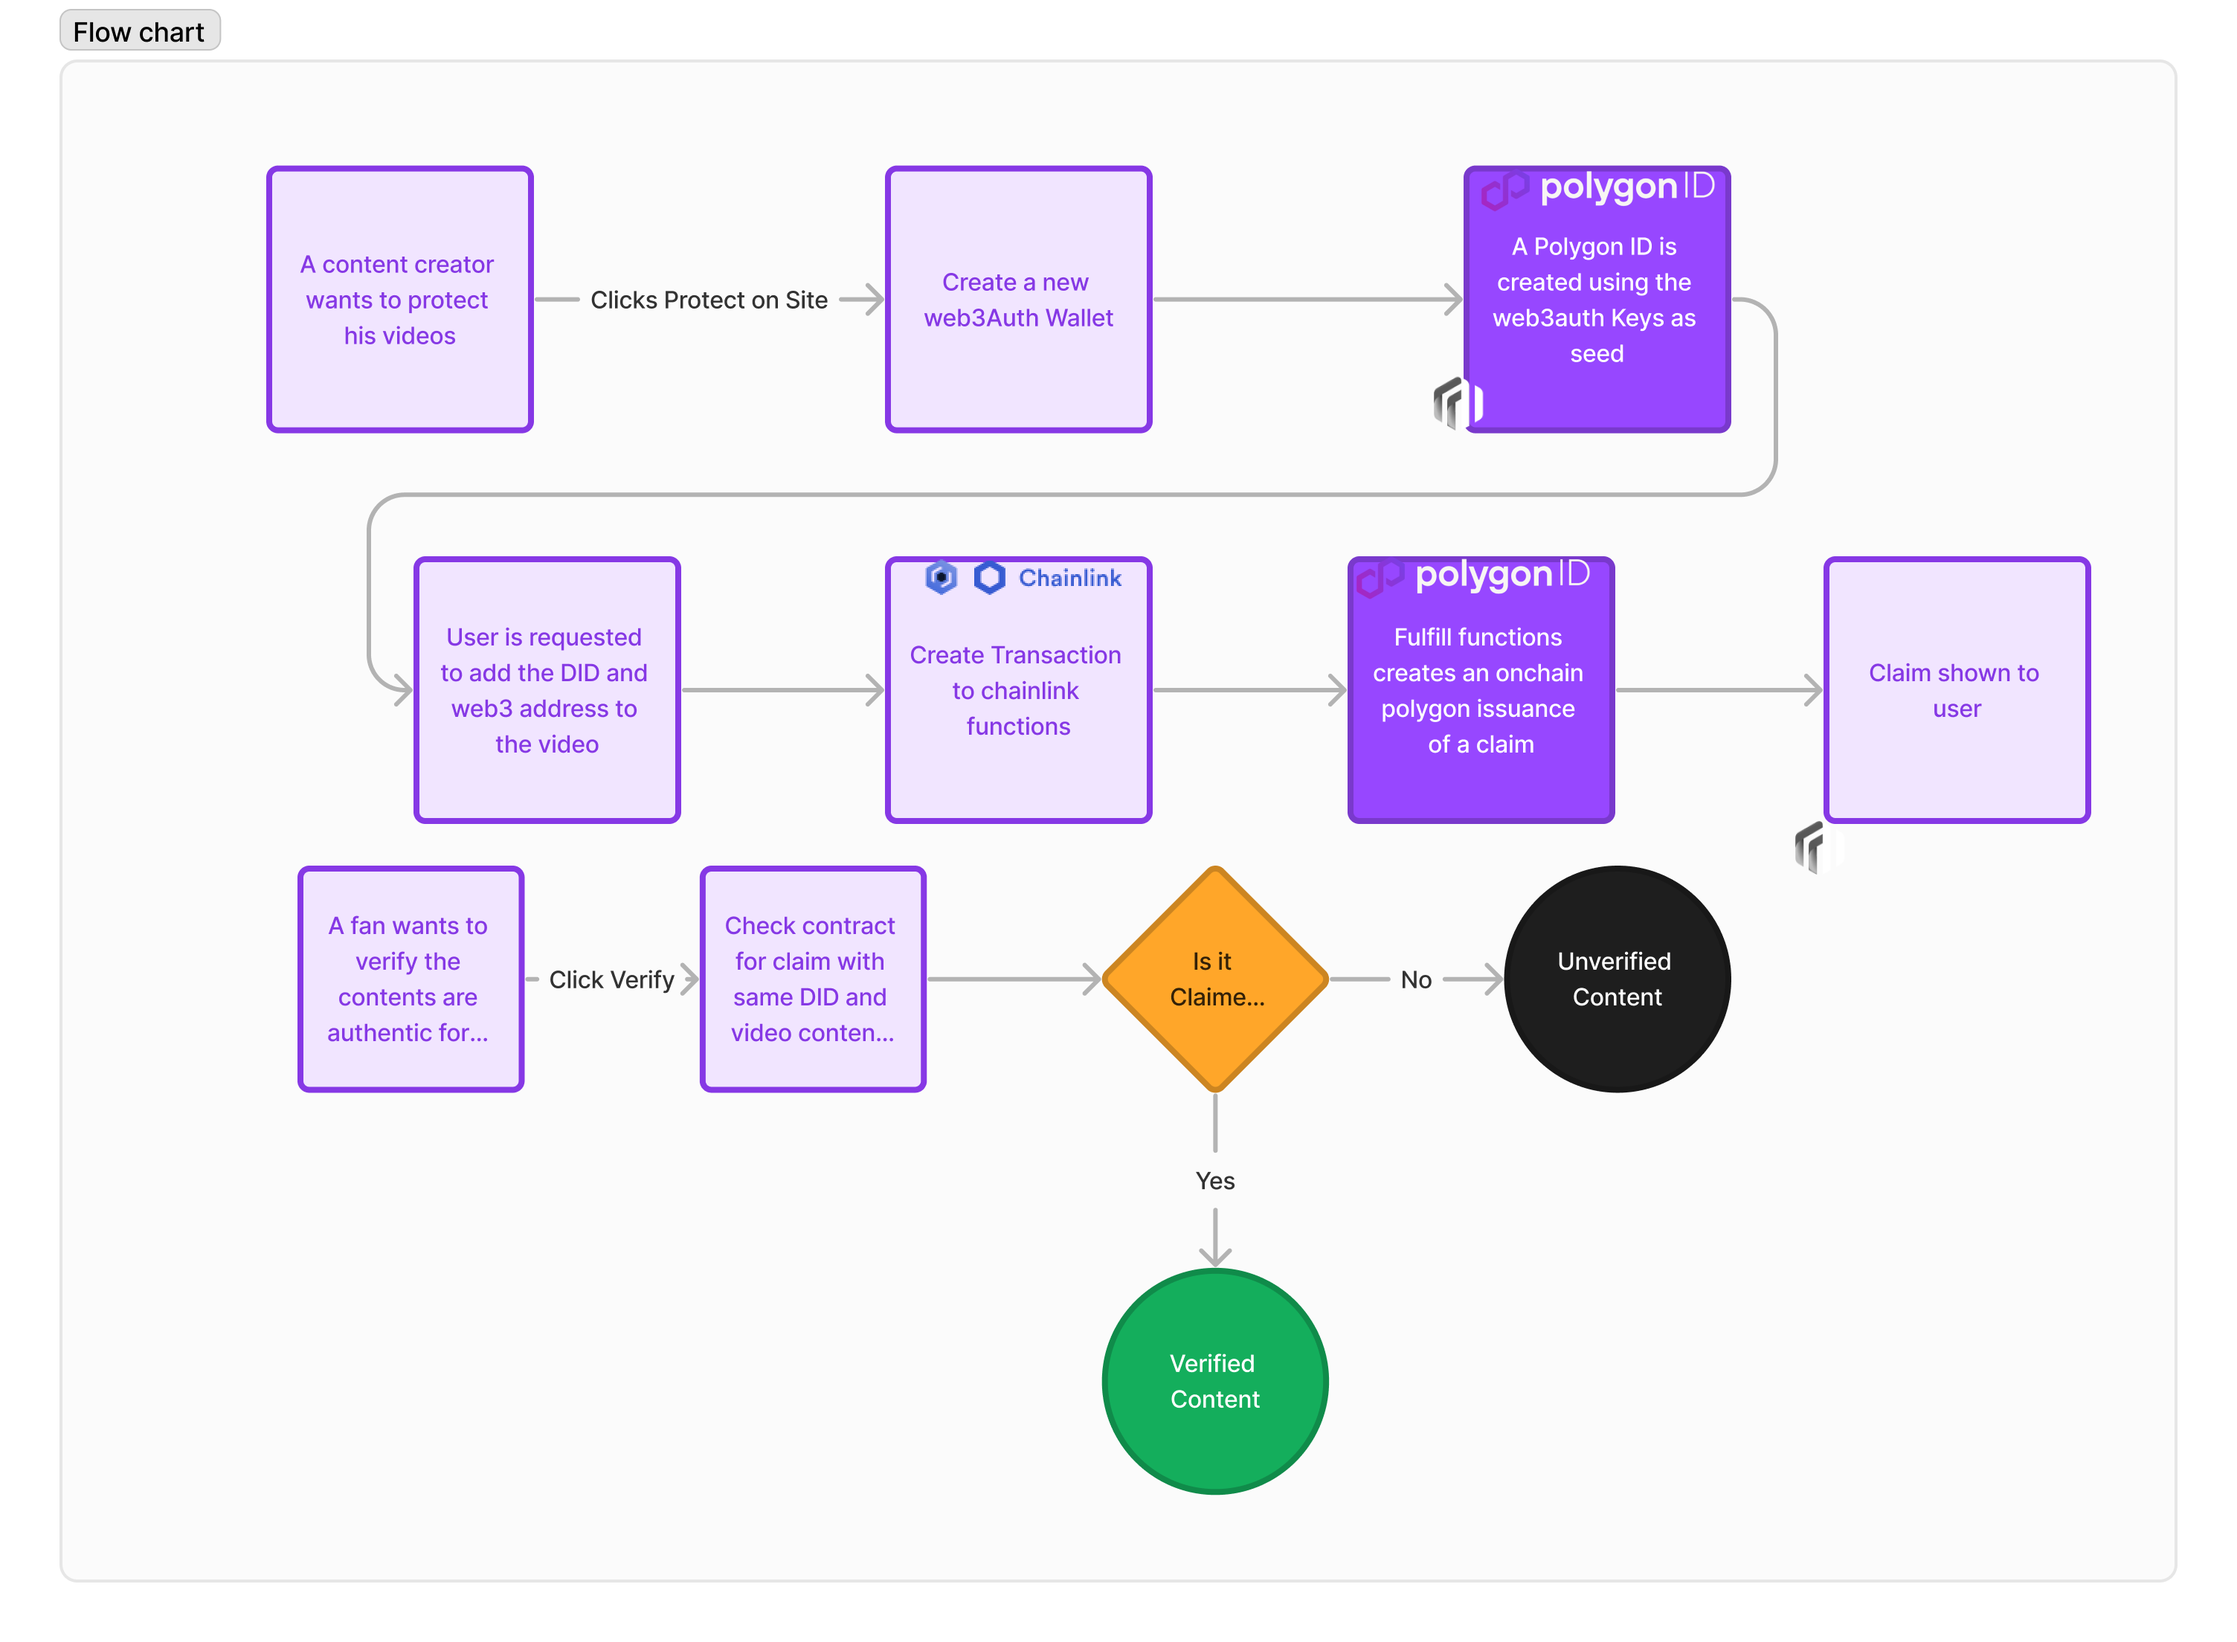
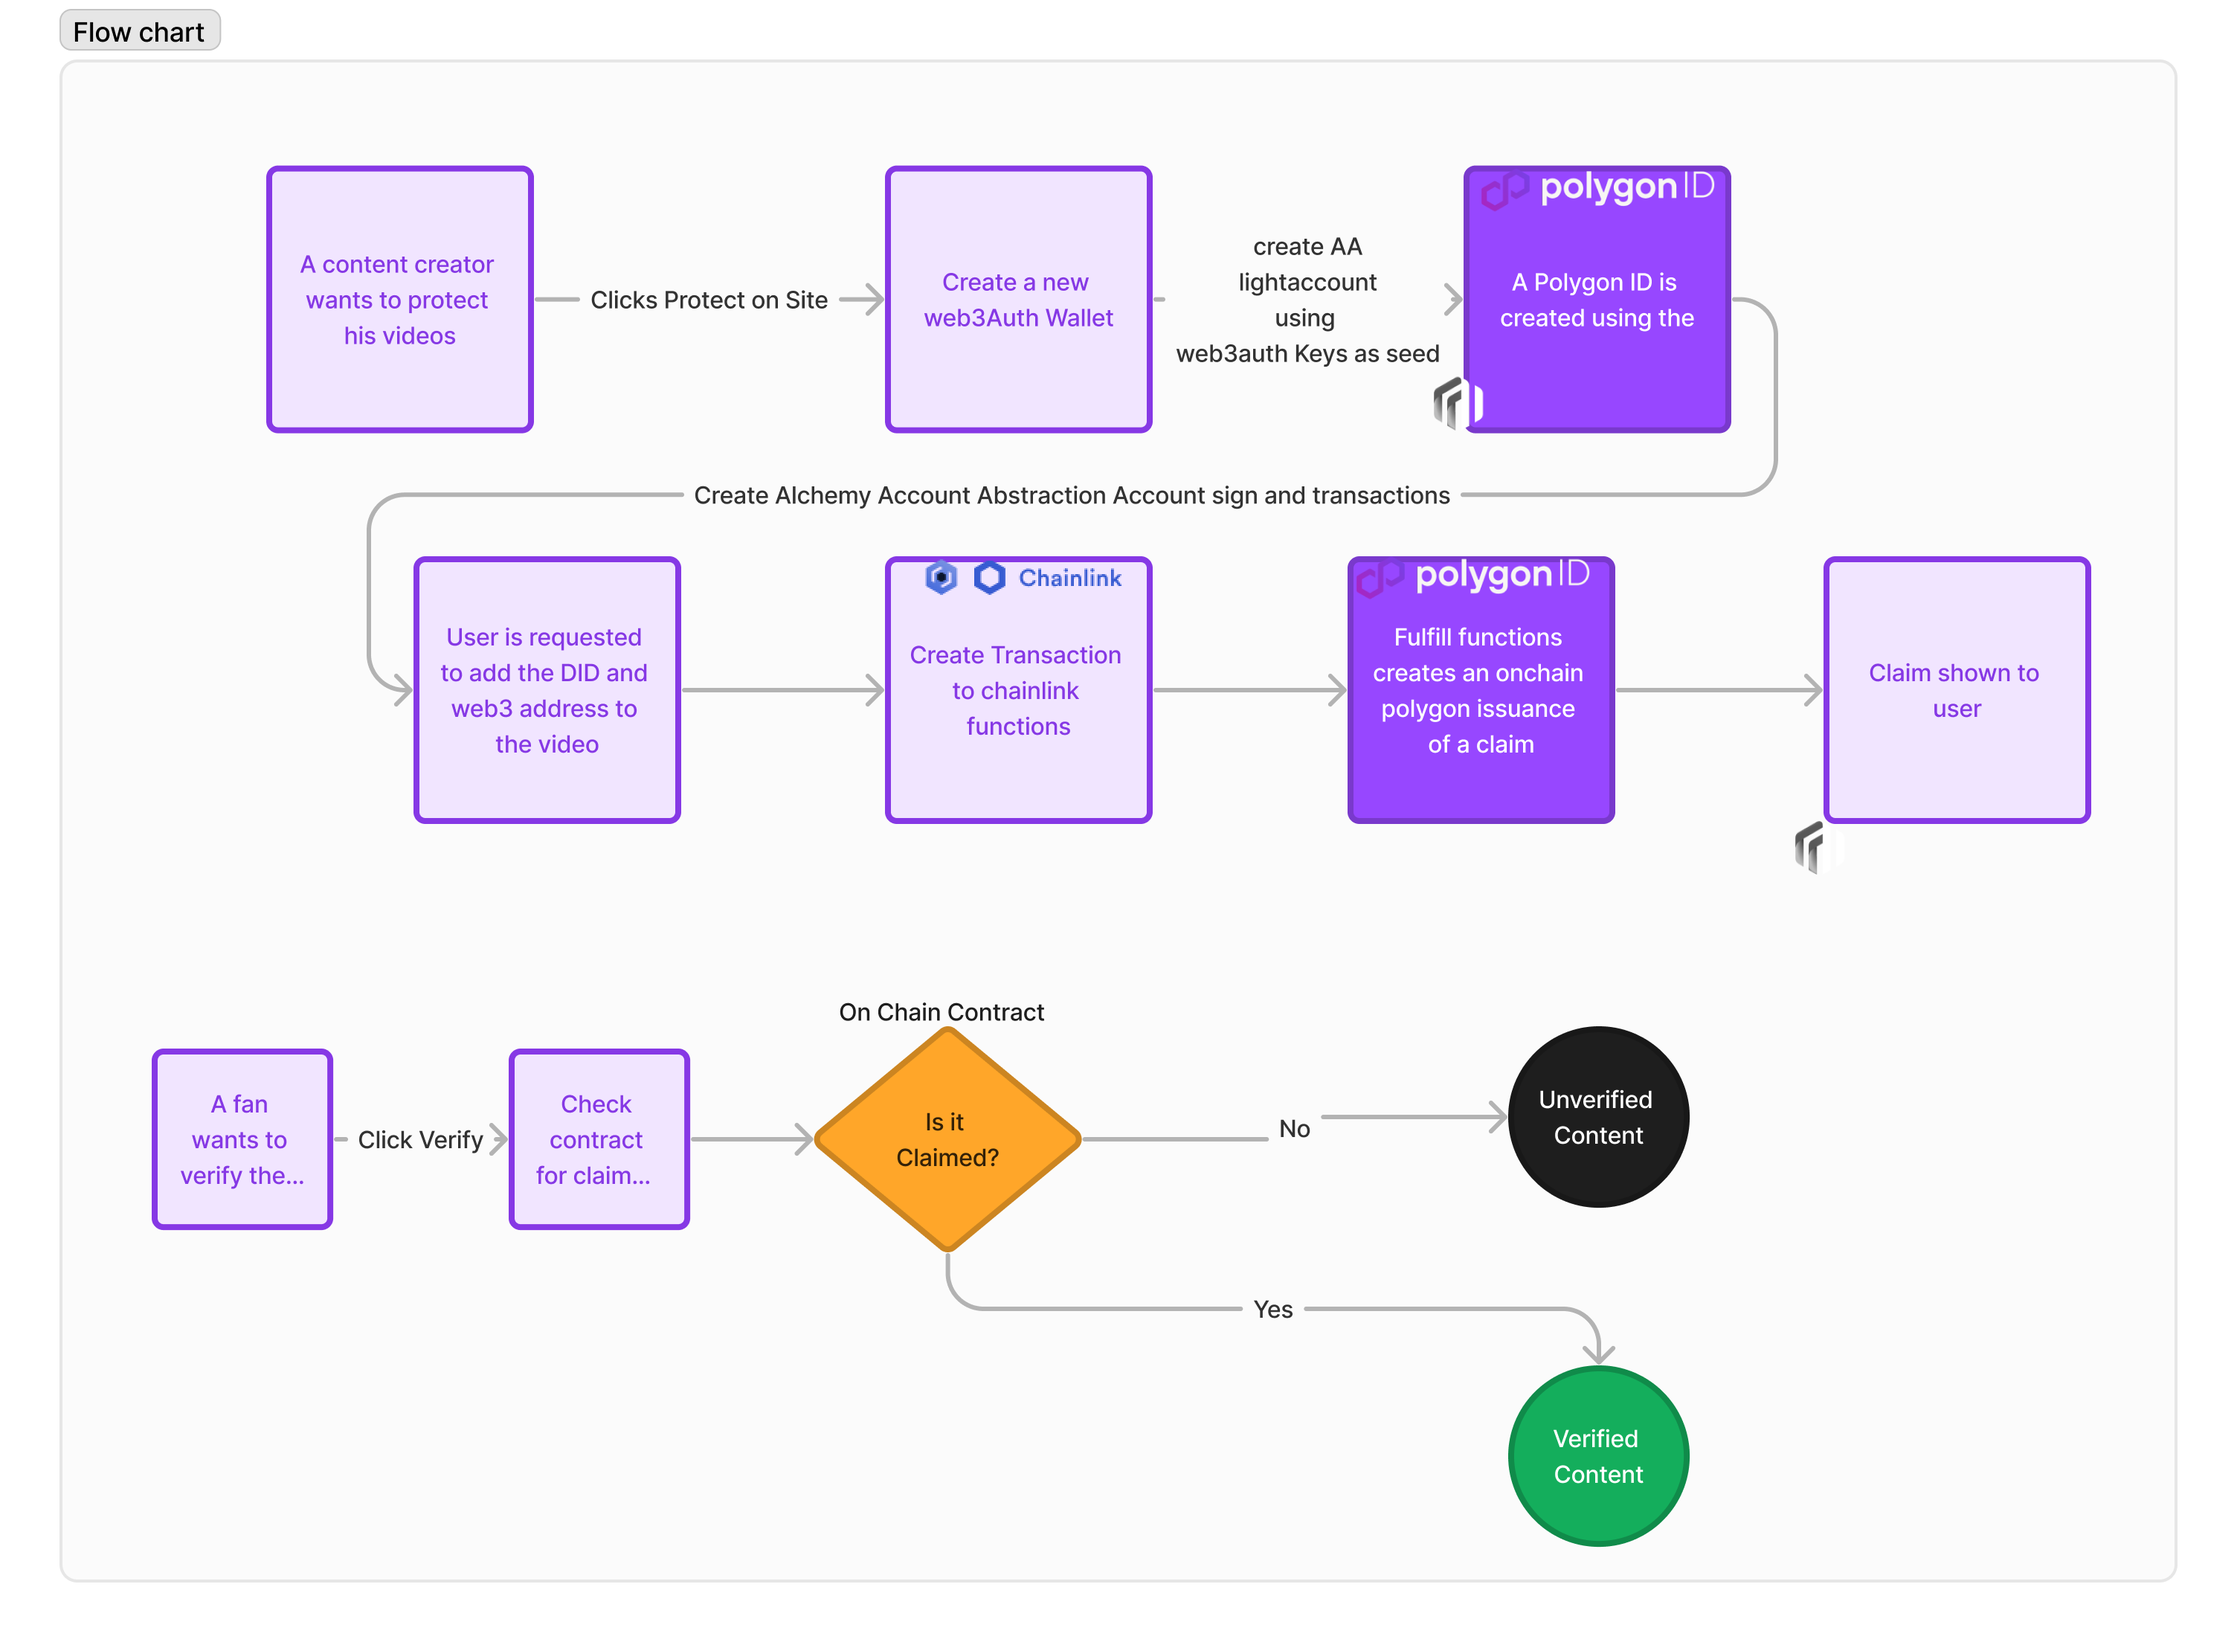
updated documentation

diff --git a/Readme.md b/Readme.md
@@ -17,14 +17,13 @@ This was done for the constellation chainlink hackathon
 
 
 ### Changelog
-- [x] Created a basic UI to get youtube metadata
-- [x] Add a sample template from polygon id (this was renamed to backend - curl https://iden3-circuits-bucket.s3.eu-west-1.amazonaws.com/latest.zip --output latest.zip)
-- [x] Tweak polygon sample project to emit VC's
-- [x] Working end to end flow with functions and Polygon ID
-- [ ] Tweak sample to emit VC's using AA
+- [x] Add chainlink function to get youtube metadata and check if user's DID and wallet address exists in video
+- [x] Added polygon's onchain issuer addresses - 0x454E5108cEE33c743D8DE8eF92aeb749256AbC3D
+- [x] Added web3auth for easy onboarding for content creators as subject audience
+- [x] Added chainlink function caller - 0xdc99eE47fc88C11Cdff1291628d1c0b5D6292706 
+- [x] Added UI to show verification and past verifications
+- [x] Added Account Abstraction using Alchemy's Light account and reconfigured the hierarchy of accounts as web3auth-> LightAccount -> DID
 
-### Issues to resolve
-AA issue with Biconomy need to resolve
 
 ### Example Transaction with Claim for polygon that was fulfilled via a chainlink state change
 https://mumbai.polygonscan.com/tx/0x7ed386efe1d6a3e27e1fdc7982b40d05018f13d7aa915fb3716f73aa5861c6b3#eventlog
